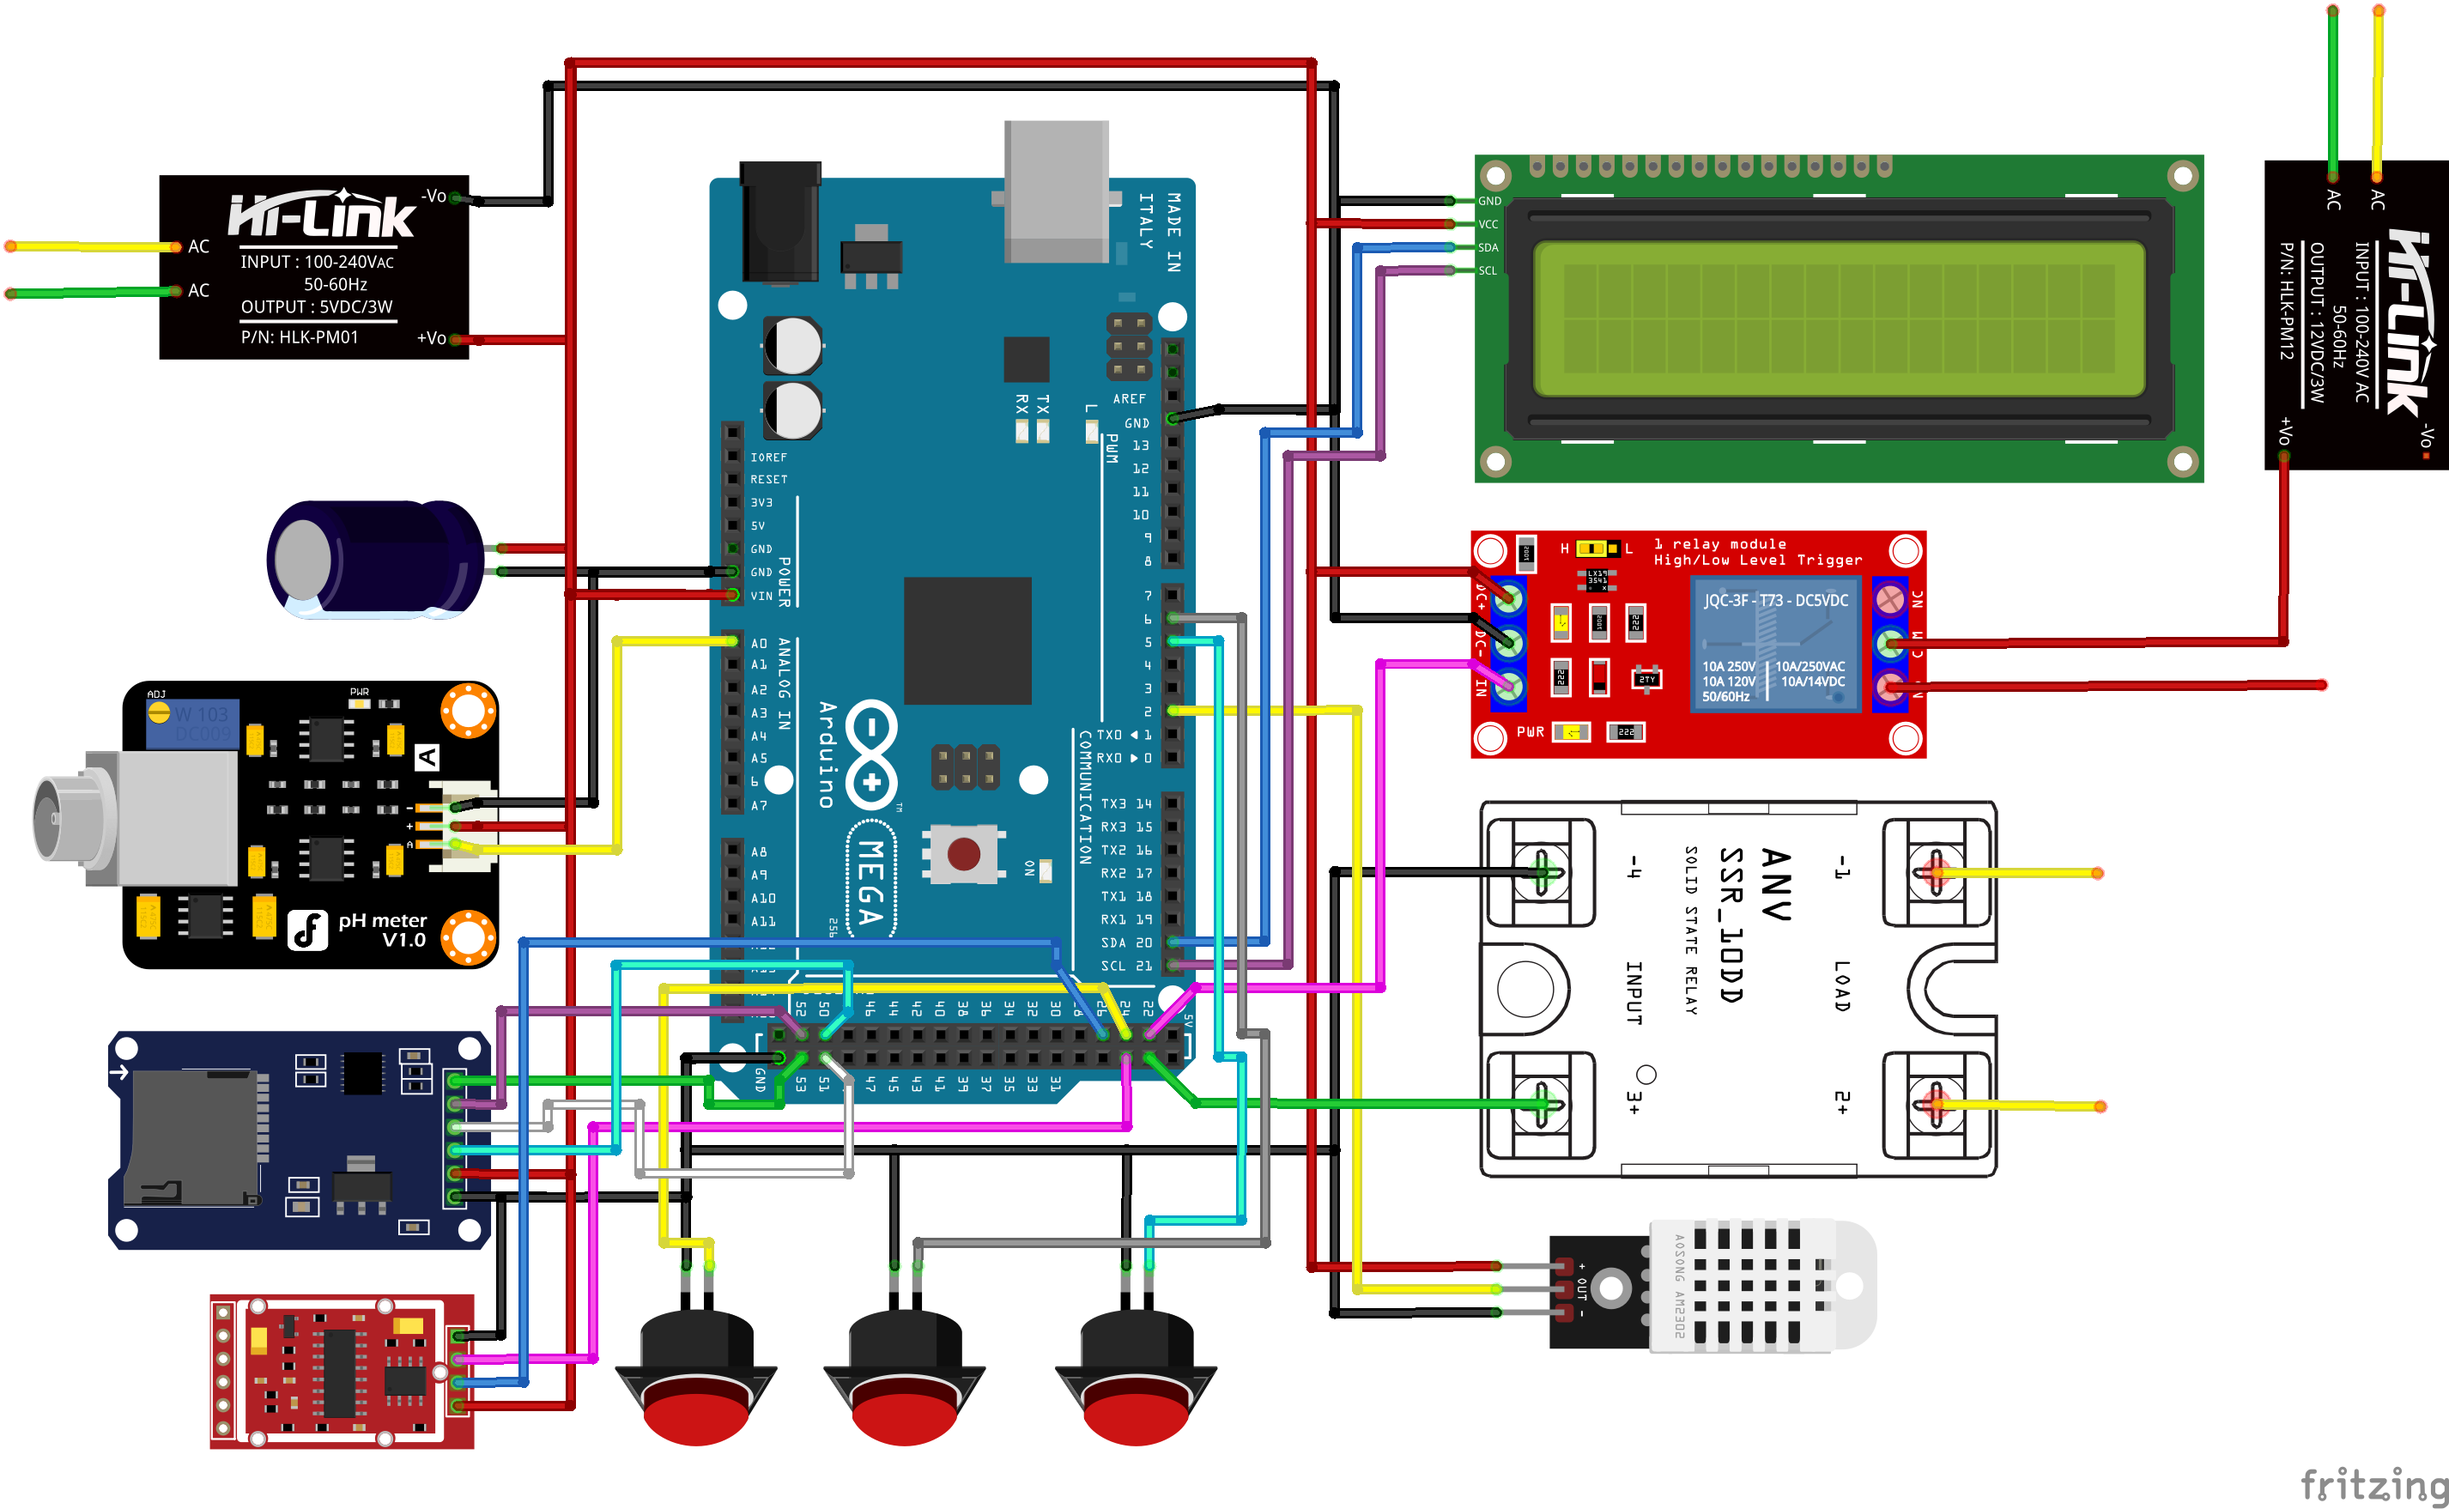
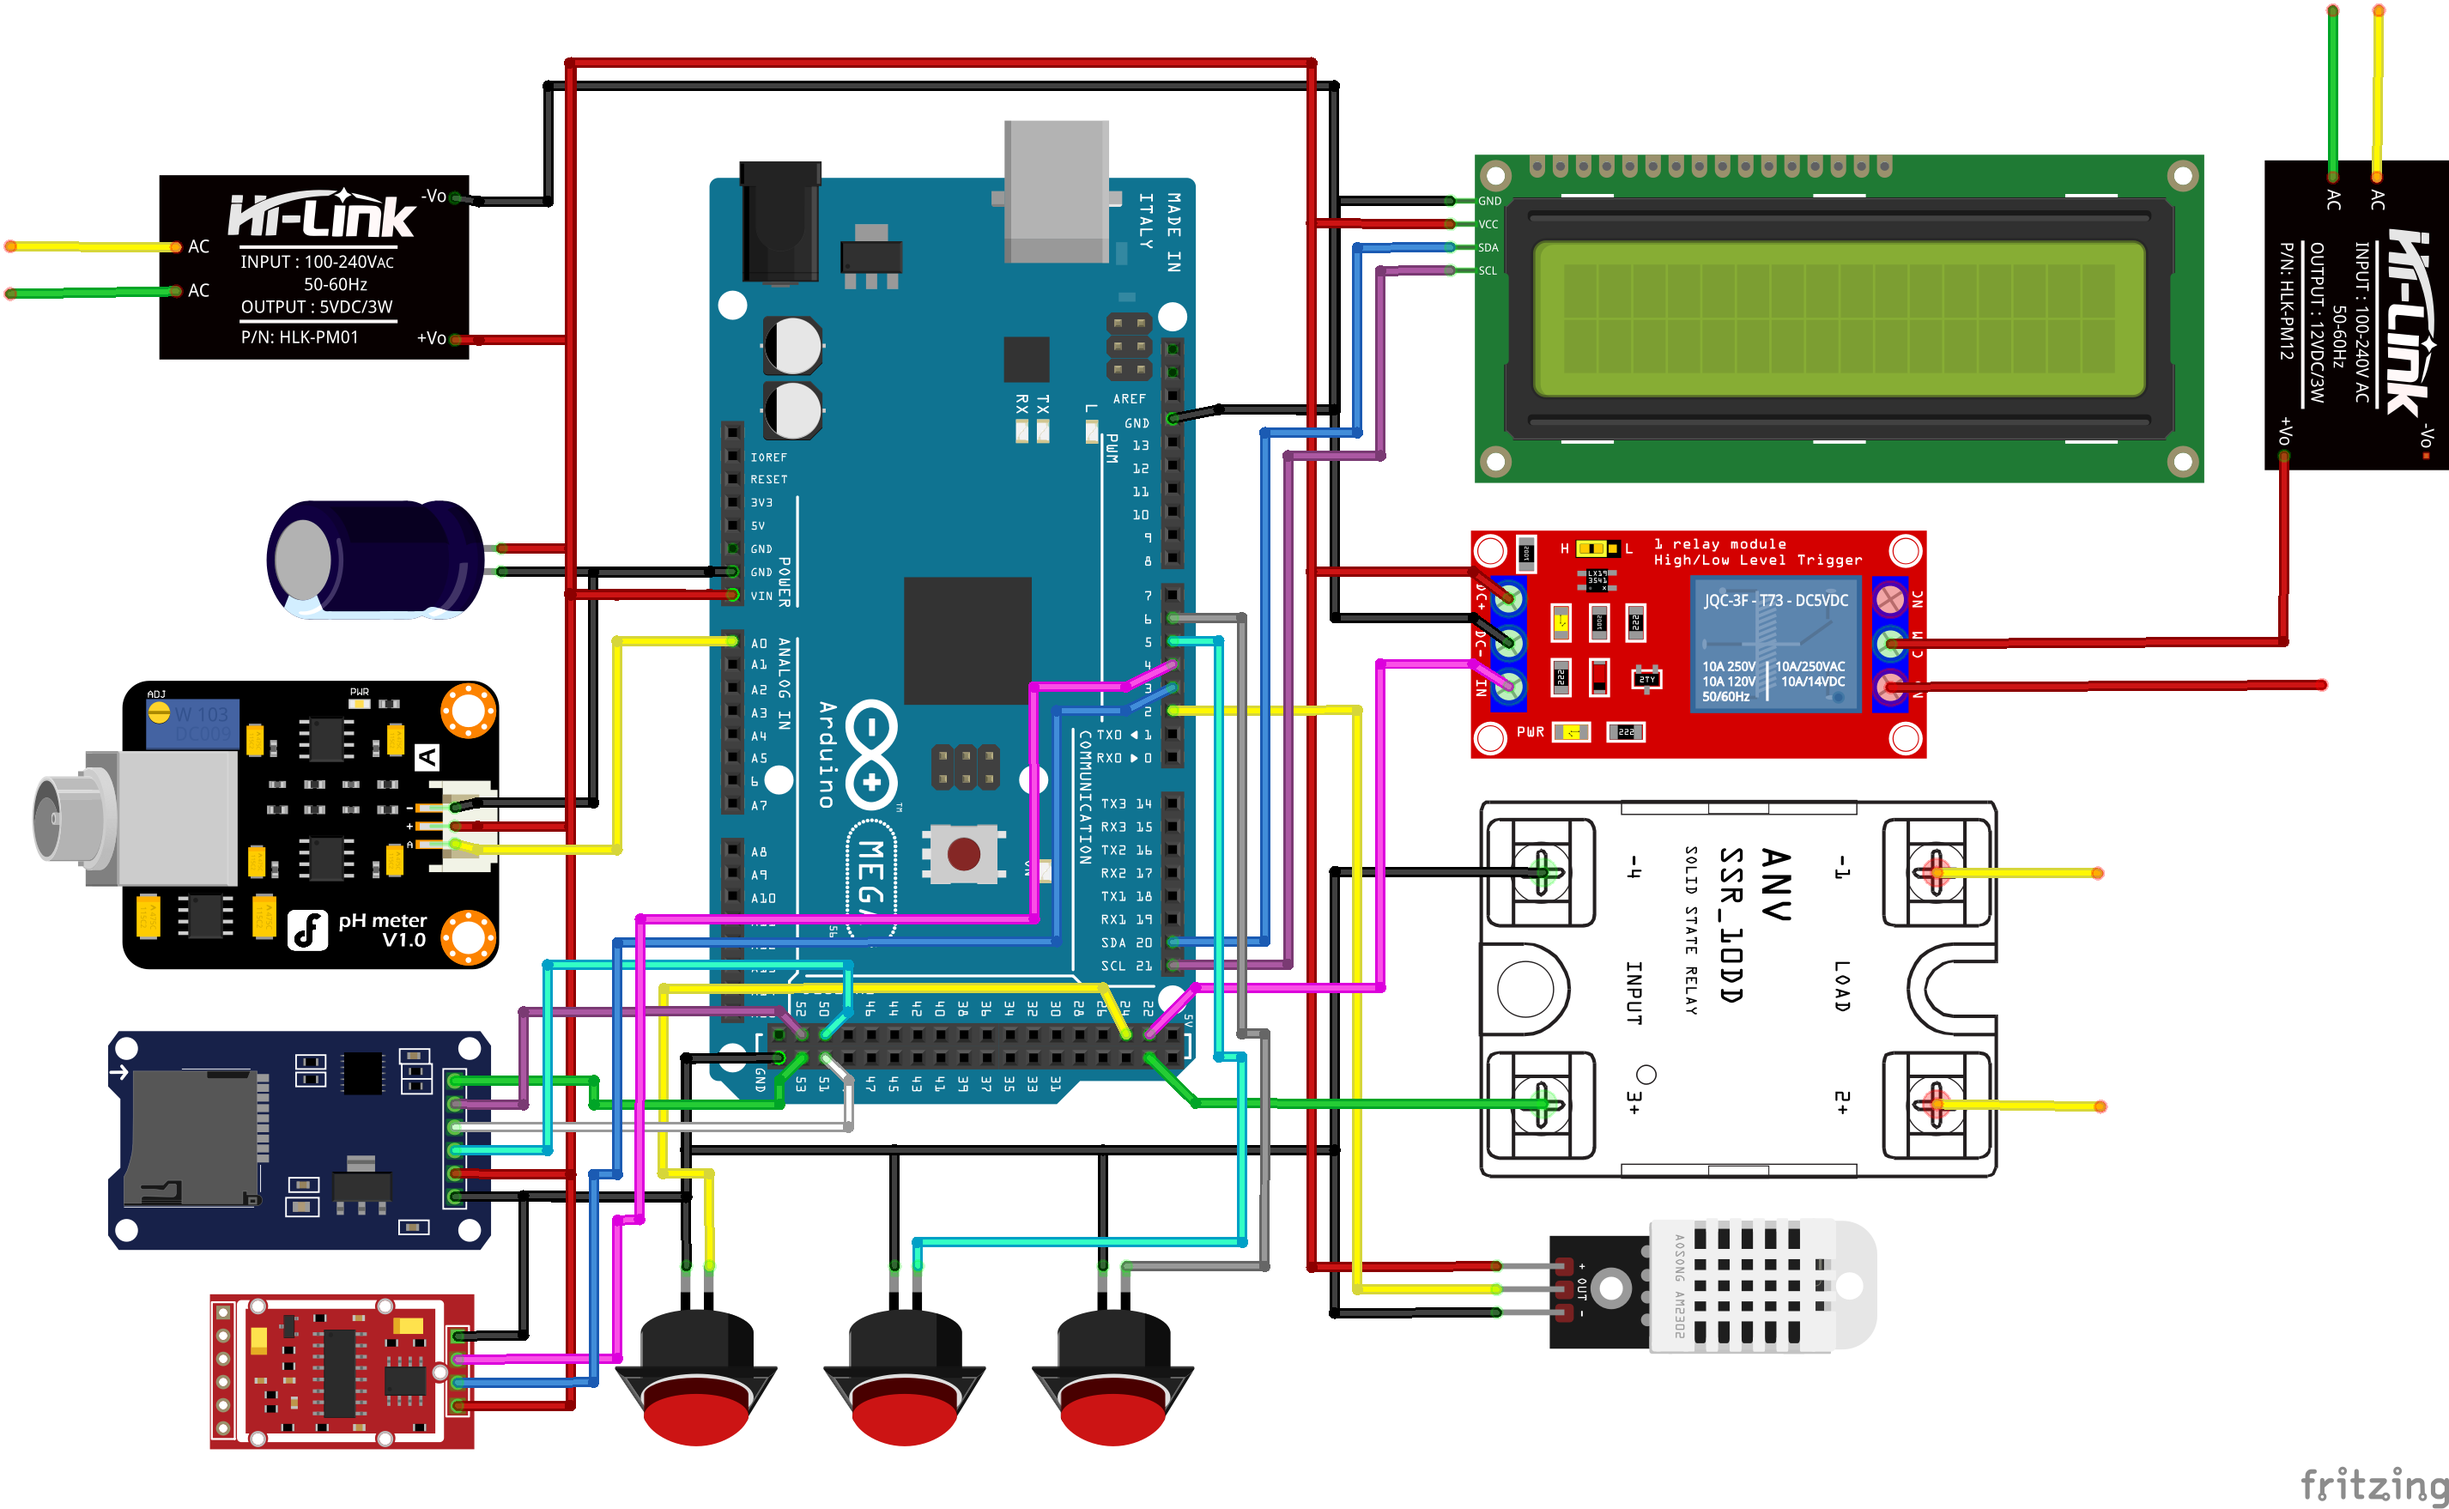
Update pin configurations and wiring diagrams

Changed region(s): [[0.1872, 0.43, 0.5303, 0.9522]]

diff --git a/src/arduino/SmartMixerV1/PINS_CONFIG.h b/src/arduino/SmartMixerV1/PINS_CONFIG.h
@@ -5,8 +5,8 @@
 #define TEMP_SENSOR_PIN 2  // DHT22 sensor
 
 // HX711 load cell amplifier pins
-#define HX711_DT 25
-#define HX711_SCK 26
+#define HX711_DT 4
+#define HX711_SCK 3
 
 // pH sensor pin (analog)
 #define PH_PIN A0

diff --git a/src/arduino/SmartMixer/PINS_CONFIG.h b/src/arduino/SmartMixer/PINS_CONFIG.h
@@ -5,8 +5,8 @@
 #define DHT_PIN 2
 
 // HX711 load cell amplifier pins
-#define HX711_DT 25
-#define HX711_SCK 23
+#define HX711_DT 4
+#define HX711_SCK 3
 
 // pH sensor pin
 #define PH_PIN A0
